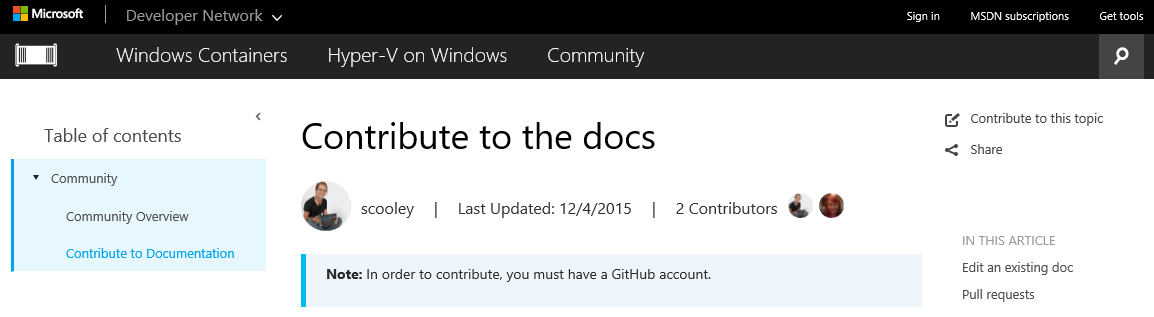
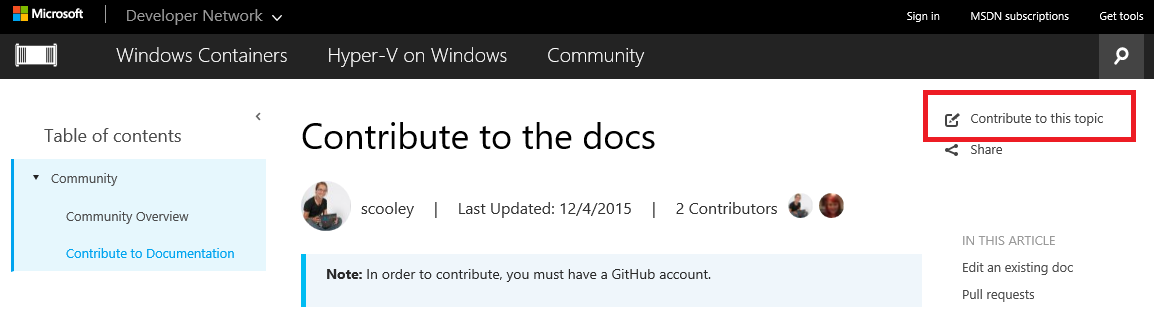
pictures

Changed region(s): [[0.7799, 0.2839, 0.9983, 0.4543]]

diff --git a/virtualization/community/contribute_to_docs.md b/virtualization/community/contribute_to_docs.md
@@ -10,7 +10,11 @@
 2. Select **Contribute to this topic**  
   This will automatically redirect you to the markdown file in GitHub associated with this file.
   
+  ![](media/GitHubView.png)
+  
 3. Select the edit icon to edit with the in browser editor.
+  
+  ![](media/GitHubEdit.png)
 
 4. Make changes inline.
   
@@ -18,6 +22,8 @@
   * Rename the file via text box presented in the file Path
   * Edit file
   * Preview changes
+  
+  
   
 5. Propose your changes with a pull request.  
 
